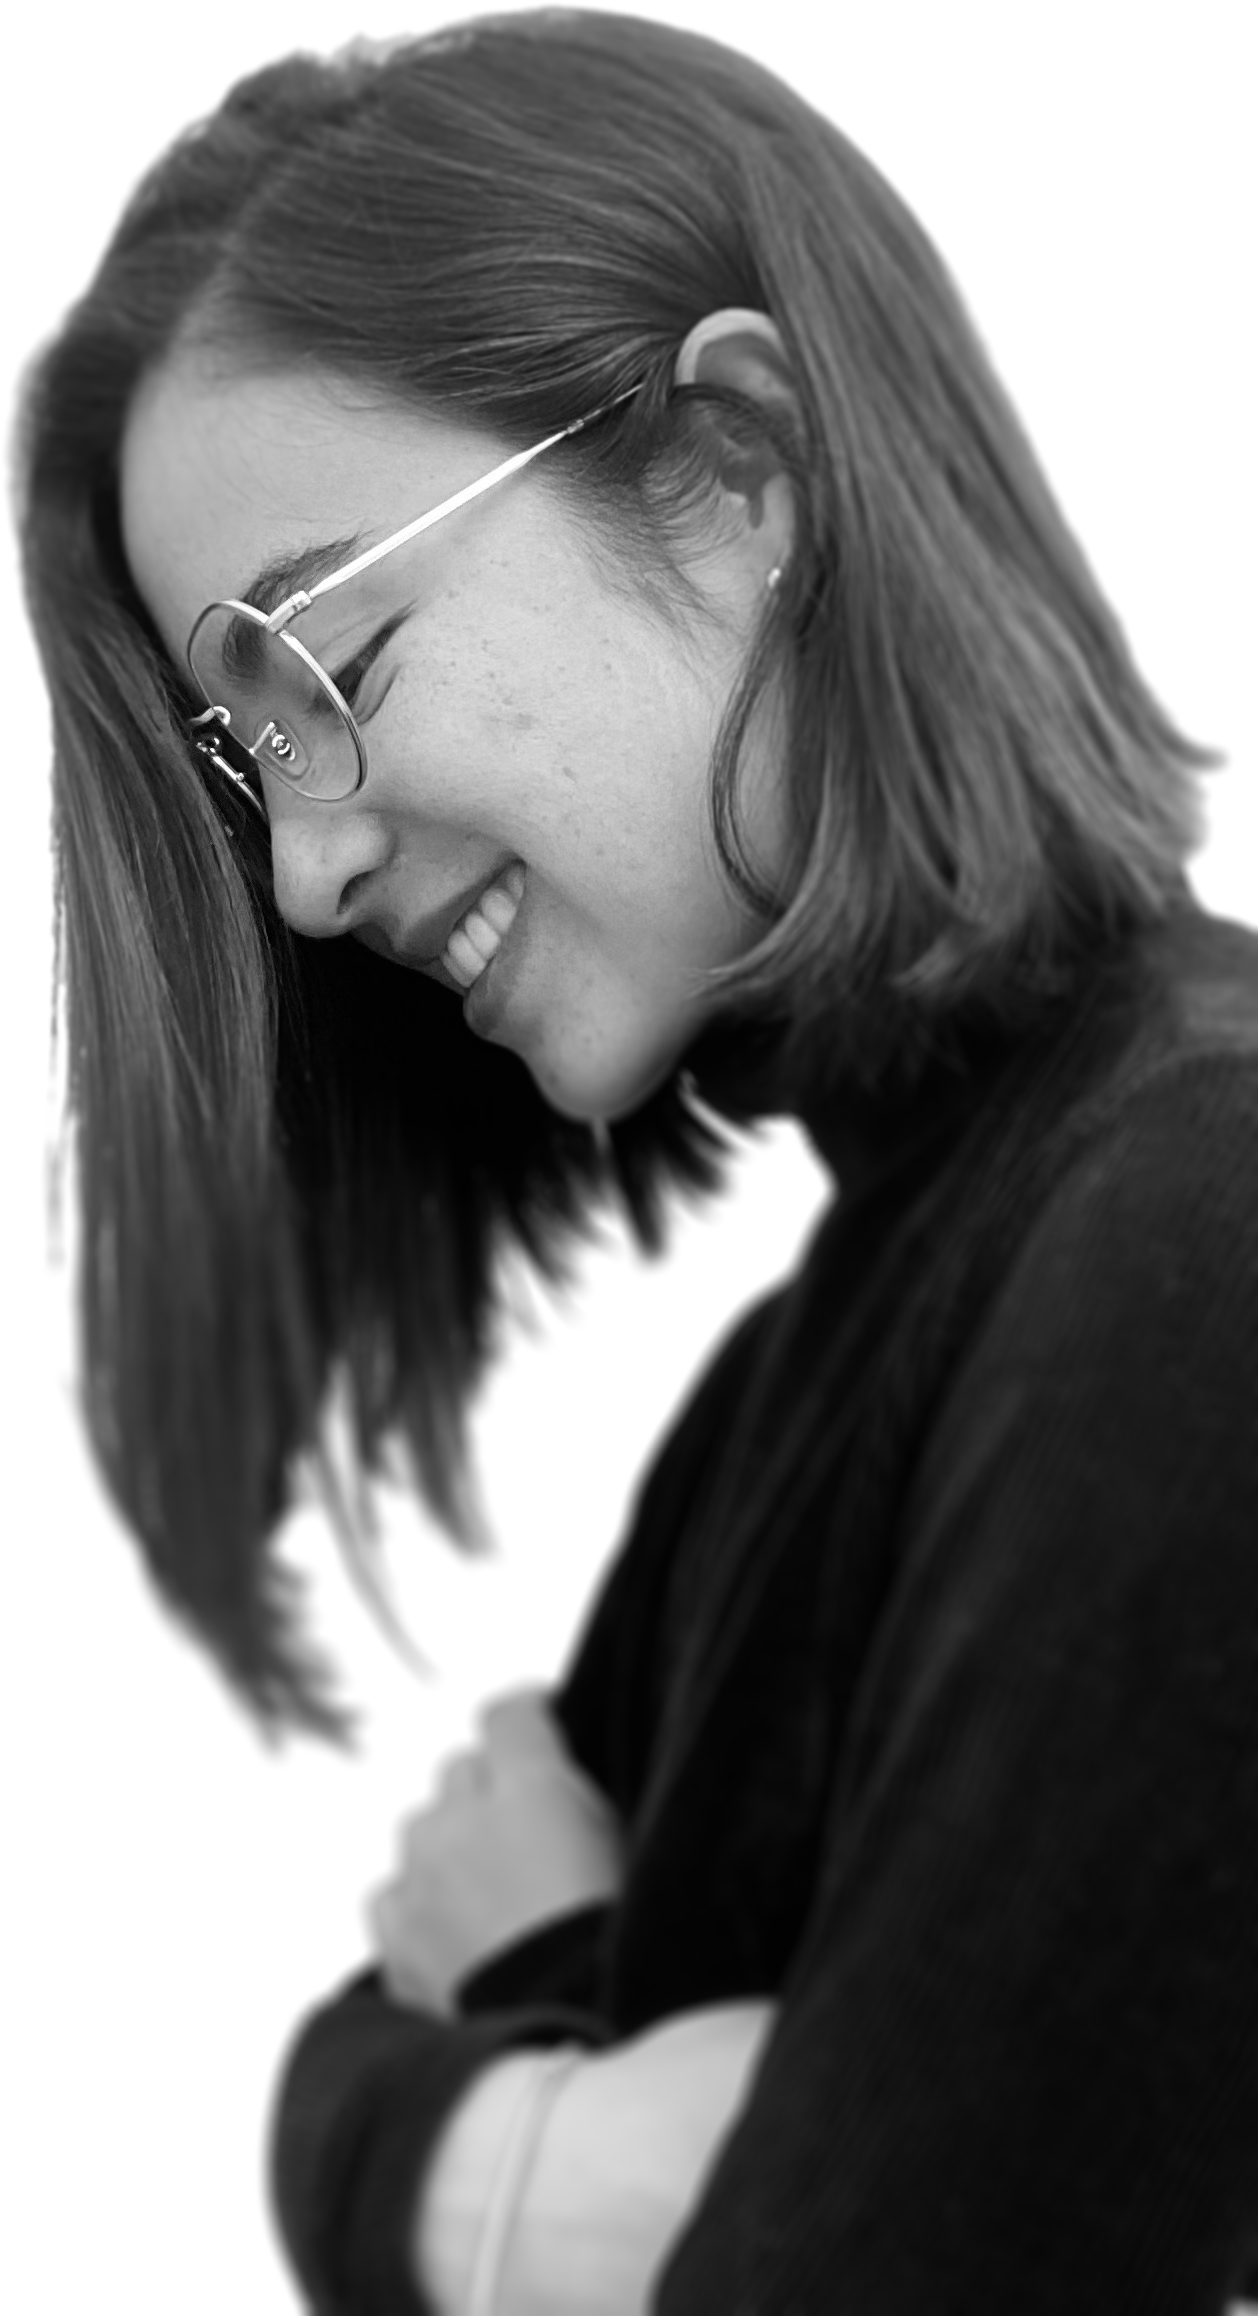
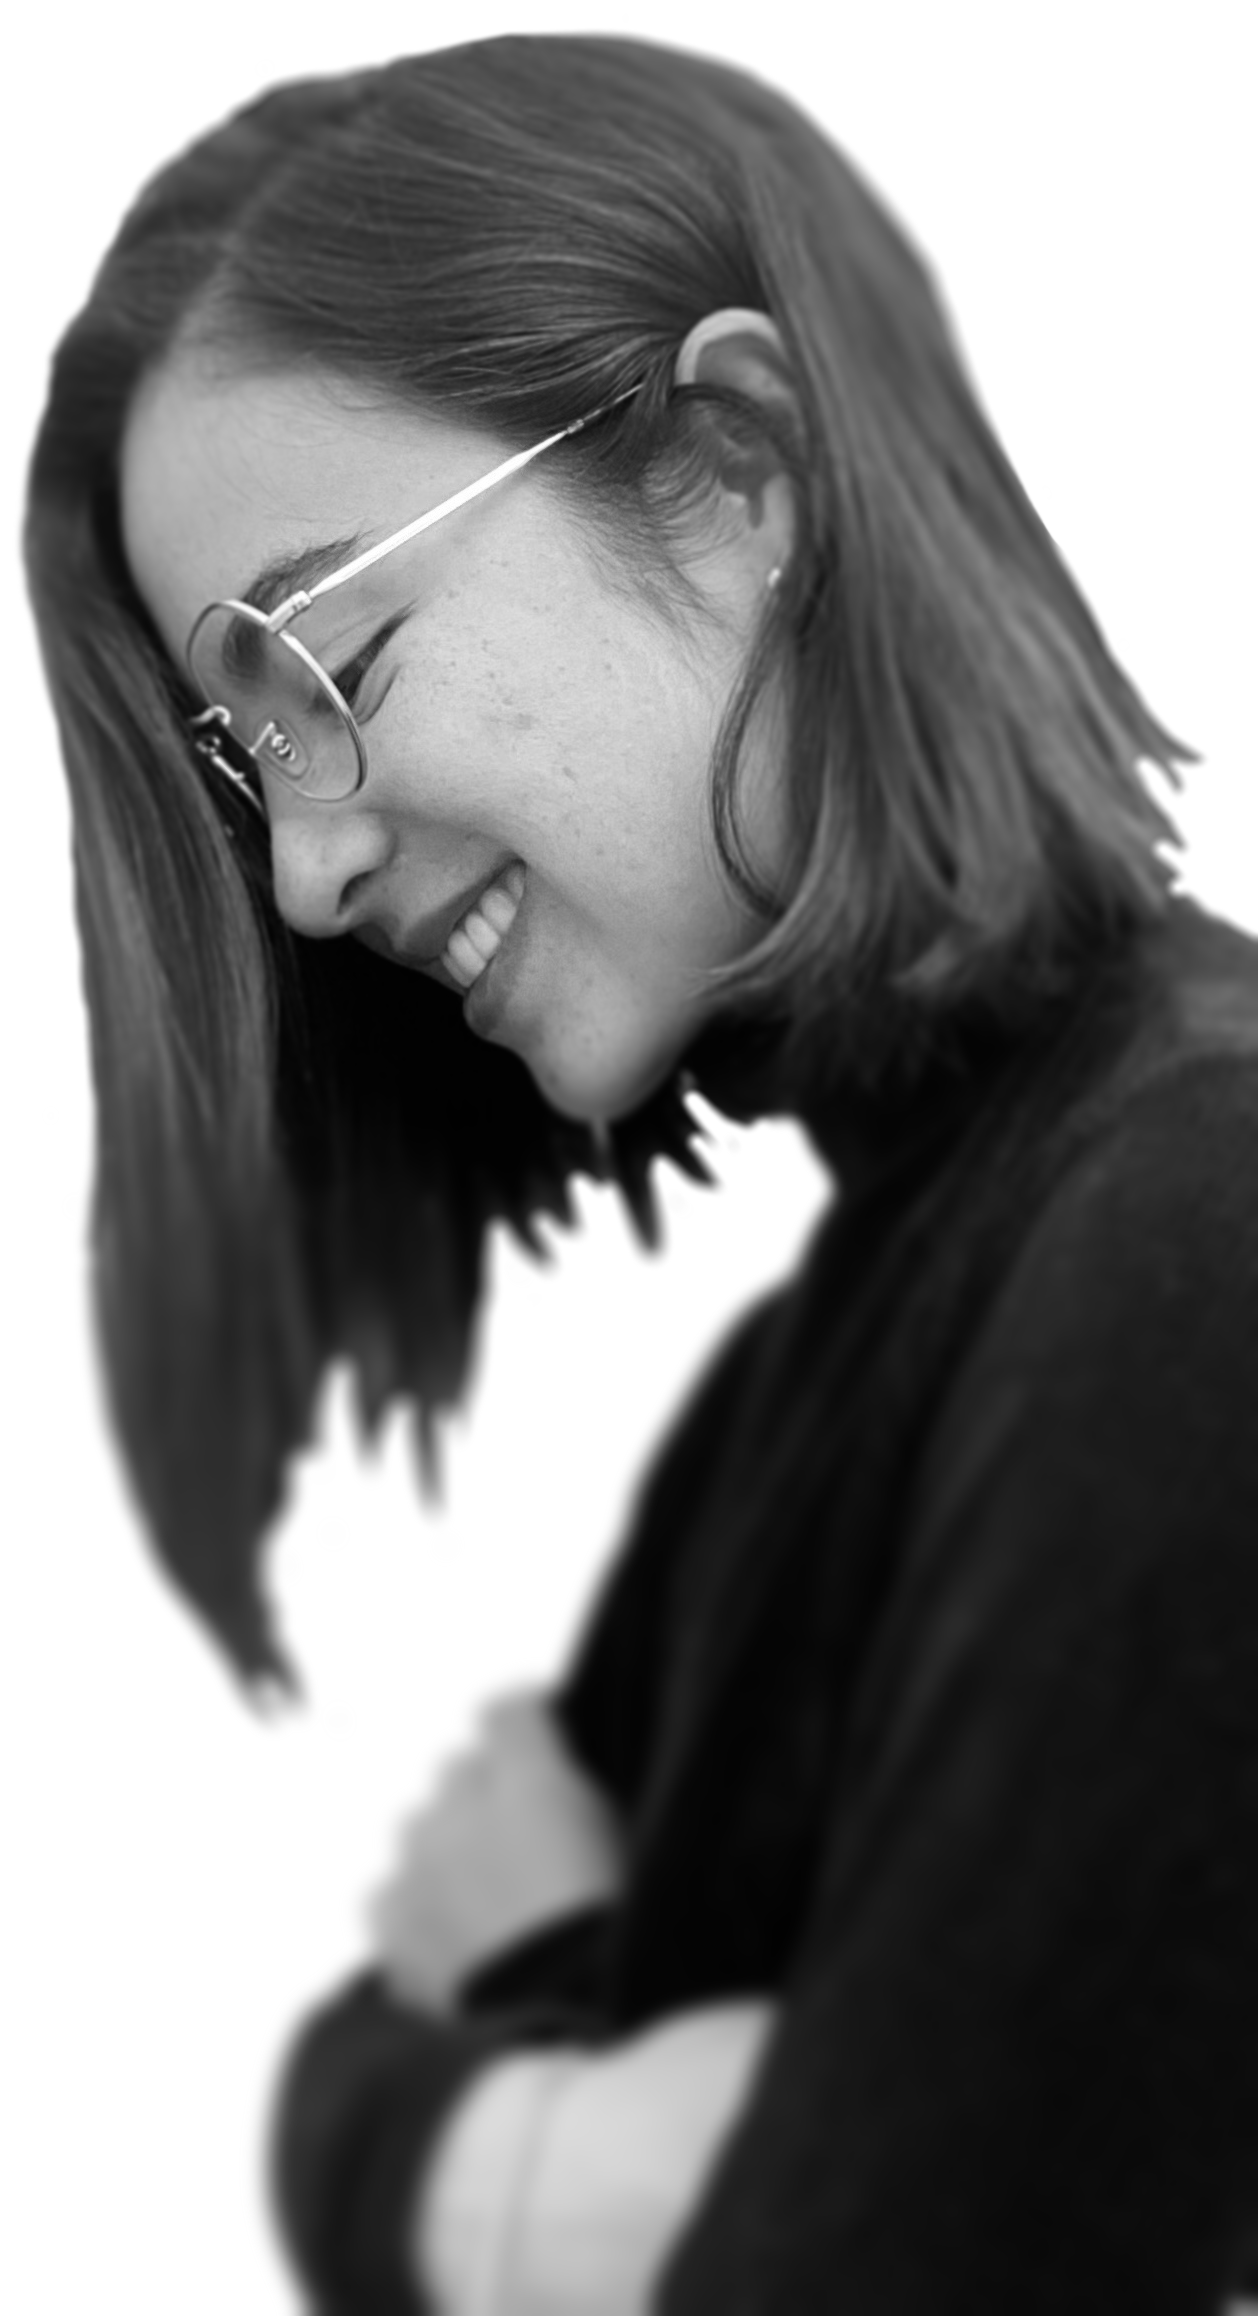
toggle for theme added

diff --git a/src/pages/HomePage.module.css b/src/pages/HomePage.module.css
@@ -1,3 +1,11 @@
+.ligth{
+    background-color: #f7f7f7;
+    color: #22272f;
+}
+.dark{
+    background-color: #22272f;
+    color: #f7f7f7;
+}
 .homePage{
     display: grid;
     grid-template-rows:auto 1fr auto;
@@ -9,15 +17,16 @@
 }
 .header div{
     grid-column: 5/11;
+    height: 100%;
     display: flex;
     justify-content: flex-end;
+    align-items: center;
     position: relative;
 }
-.switch{
-    grid-column: 3/4;
-}
+
 .header div p{
     position: fixed;
+    top: 0;
 }
 .main{
     display: grid;
@@ -25,19 +34,21 @@
 }
 
 .switch {
+    grid-column: 3/4;
     position: relative;
-    display: inline-block;
+    display: flex;
     width: 60px;
     height: 34px;
-  }
+    margin: .5rem;
+}
 
-  .switch input {
+.switch input {
     opacity: 0;
     width: 0;
     height: 0;
-  }
+}
 
-  .slider {
+.slider {
     position: absolute;
     cursor: pointer;
     top: 0;
@@ -47,9 +58,9 @@
     background-color: #ccc;
     -webkit-transition: .4s;
     transition: .4s;
-  }
+}
 
-  .slider:before {
+.slider:before {
     position: absolute;
     content: "";
     height: 26px;
@@ -59,27 +70,27 @@
     background-color: white;
     -webkit-transition: .4s;
     transition: .4s;
-  }
+}
 
-  input:checked + .slider {
-    background-color: #2196F3;
-  }
+input:checked + .slider {
+    background-color: #60dafb;
+}
 
-  input:focus + .slider {
-    box-shadow: 0 0 1px #2196F3;
-  }
+input:focus + .slider {
+    box-shadow: 0 0 1px #60dafb;
+}
 
-  input:checked + .slider:before {
+input:checked + .slider:before {
     -webkit-transform: translateX(26px);
     -ms-transform: translateX(26px);
     transform: translateX(26px);
-  }
+}
 
-  /* Rounded sliders */
-  .slider.round {
-    border-radius: 34px;
-  }
+/* Rounded sliders */
+.slider.round {
+border-radius: 34px;
+}
 
-  .slider.round:before {
-    border-radius: 50%;
-  }
+.slider.round:before {
+border-radius: 50%;
+}

diff --git a/src/pages/HomePage.jsx b/src/pages/HomePage.jsx
@@ -4,19 +4,22 @@ import About from '../components/About'
 import Stack from '../components/Stack'
 import PathToFollow from '../components/PathToFollow'
 import styles from './HomePage.module.css';
+import {useThemeContext} from '../providers/GeneralProvider'
 
 const HomePage=()=>{
+
+  const theme = useThemeContext();
   return (
-    <div className={styles.HomePage}>
+    <div className={`${styles.HomePage} ${theme.theme?styles.ligth:styles.dark}`}>
        <header className={`semiBold ${styles.header}`}>
           <label className={styles.switch}>
-            <input type='checkbox'/>
-            <span className={styles.sliderRound}></span>
+            <input type='checkbox' value={theme} onChange={theme.handleTheme}/>
+            <span className={`${styles.slider} ${styles.round}`}></span>
           </label>
           <div>
             <p>daniela.</p>
           </div>
-       </header> 
+       </header>
        <main className={styles.main}>
         <Welcome/>
         <About/>

diff --git a/src/components/Stack.module.css b/src/components/Stack.module.css
@@ -22,7 +22,7 @@
     width: 50px;
     margin-right: 1rem;
 }
-.container .lan{
+.container .lanl{
     margin: 1em;
     padding-left: 1em;
     width: 200px;
@@ -35,9 +35,28 @@
     box-shadow:  20px 20px 60px #d2d2d2,
                  -20px -20px 60px #ffffff;
 }
-.lan:hover{
+.container .land{
+    margin: 1em;
+    padding-left: 1em;
+    width: 200px;
+    height: 80px;
+    display: flex;
+    justify-items: center;
+    align-items: center;
+    border-radius: 50px;
+    background: #22272f;
+    box-shadow:  20px 20px 60px #1d2128,
+                 -20px -20px 60px #272d36;
+}
+.lanl:hover{
     border-radius: 50px;
     background: #f7f7f7;
     box-shadow:  5px 5px 10px #d2d2d2,
              -5px -5px 10px #ffffff;
+}
+.land:hover{
+    border-radius: 50px;
+    background: #22272f;
+    box-shadow:  5px 5px 10px #1d2128,
+                -5px -5px 10px #272d36;
 }

diff --git a/src/providers/GeneralProvider.jsx b/src/providers/GeneralProvider.jsx
@@ -1,11 +1,21 @@
-import React, { createContext, useState } from 'react'
+import React, { createContext, useState, useContext} from 'react'
 
 const themeContext = createContext()
 
+//to not need to export the context and protect it
+export function useThemeContext(){
+    return useContext(themeContext);
+}
+
 const GeneralProvider = (props) => {
-  const [theme,setTheme] = useState(null)
+  const [theme,setTheme] = useState(true)
+  
+  const handleTheme = (e)=>{
+    e.target.checked?setTheme(false):setTheme(true)
+  }
+  const data = {theme,handleTheme}
   return (
-    <themeContext.Provider value={theme}>
+    <themeContext.Provider value={data}>
         {props.children}
     </themeContext.Provider>
   );

diff --git a/src/components/Stack.jsx b/src/components/Stack.jsx
@@ -7,7 +7,9 @@ import htmlImg from '../assets/html5.png'
 import cssImg from '../assets/css.png'
 import jsImg from '../assets/js.png'
 import nodeImg from '../assets/node.png'
+import { useThemeContext } from '../providers/GeneralProvider'
 export const Stack = () => {
+  const theme = useThemeContext()
   const languages =[
     {
       name:"ReactJs",
@@ -46,7 +48,7 @@ export const Stack = () => {
     }
   ]
   const nodes= languages.map((l)=>
-    <div className={styles.lan}>
+    <div className={`${theme.theme?styles.lanl:styles.land} `}>
       <img src={l.logo} alt="" />
       <h3>{l.name}</h3>
     </div>

diff --git a/src/components/Welcome.jsx b/src/components/Welcome.jsx
@@ -1,6 +1,6 @@
 import React from 'react'
 import styles from './Welcome.module.css'
-import me from '../assets/foto.png'
+import me from '../assets/foto1.png'
 export const Welcome = () => {
   return (
     <div className={styles.welcome}>
@@ -10,7 +10,7 @@ export const Welcome = () => {
         <p className={`tittle`}>I</p>
         <p className={`tittle`}> build</p>
         <p className={`tittle`}> web</p>
-        <p className={`tittle`}> applications.</p>
+        <p className={`tittle`}> apps.</p>
       </div>
       <img className={styles.me} src={me} alt="me" />
     </div>

diff --git a/src/index.css b/src/index.css
@@ -5,10 +5,10 @@
   font-family: 'Open Sans', sans-serif;
 }
 body{
-  background-color: #f7f7f7;
+
 }
 .tittle{
-  font-size: 3em;
+  font-size: 5em;
   font-weight: bold;
 }
 .semiBold{
